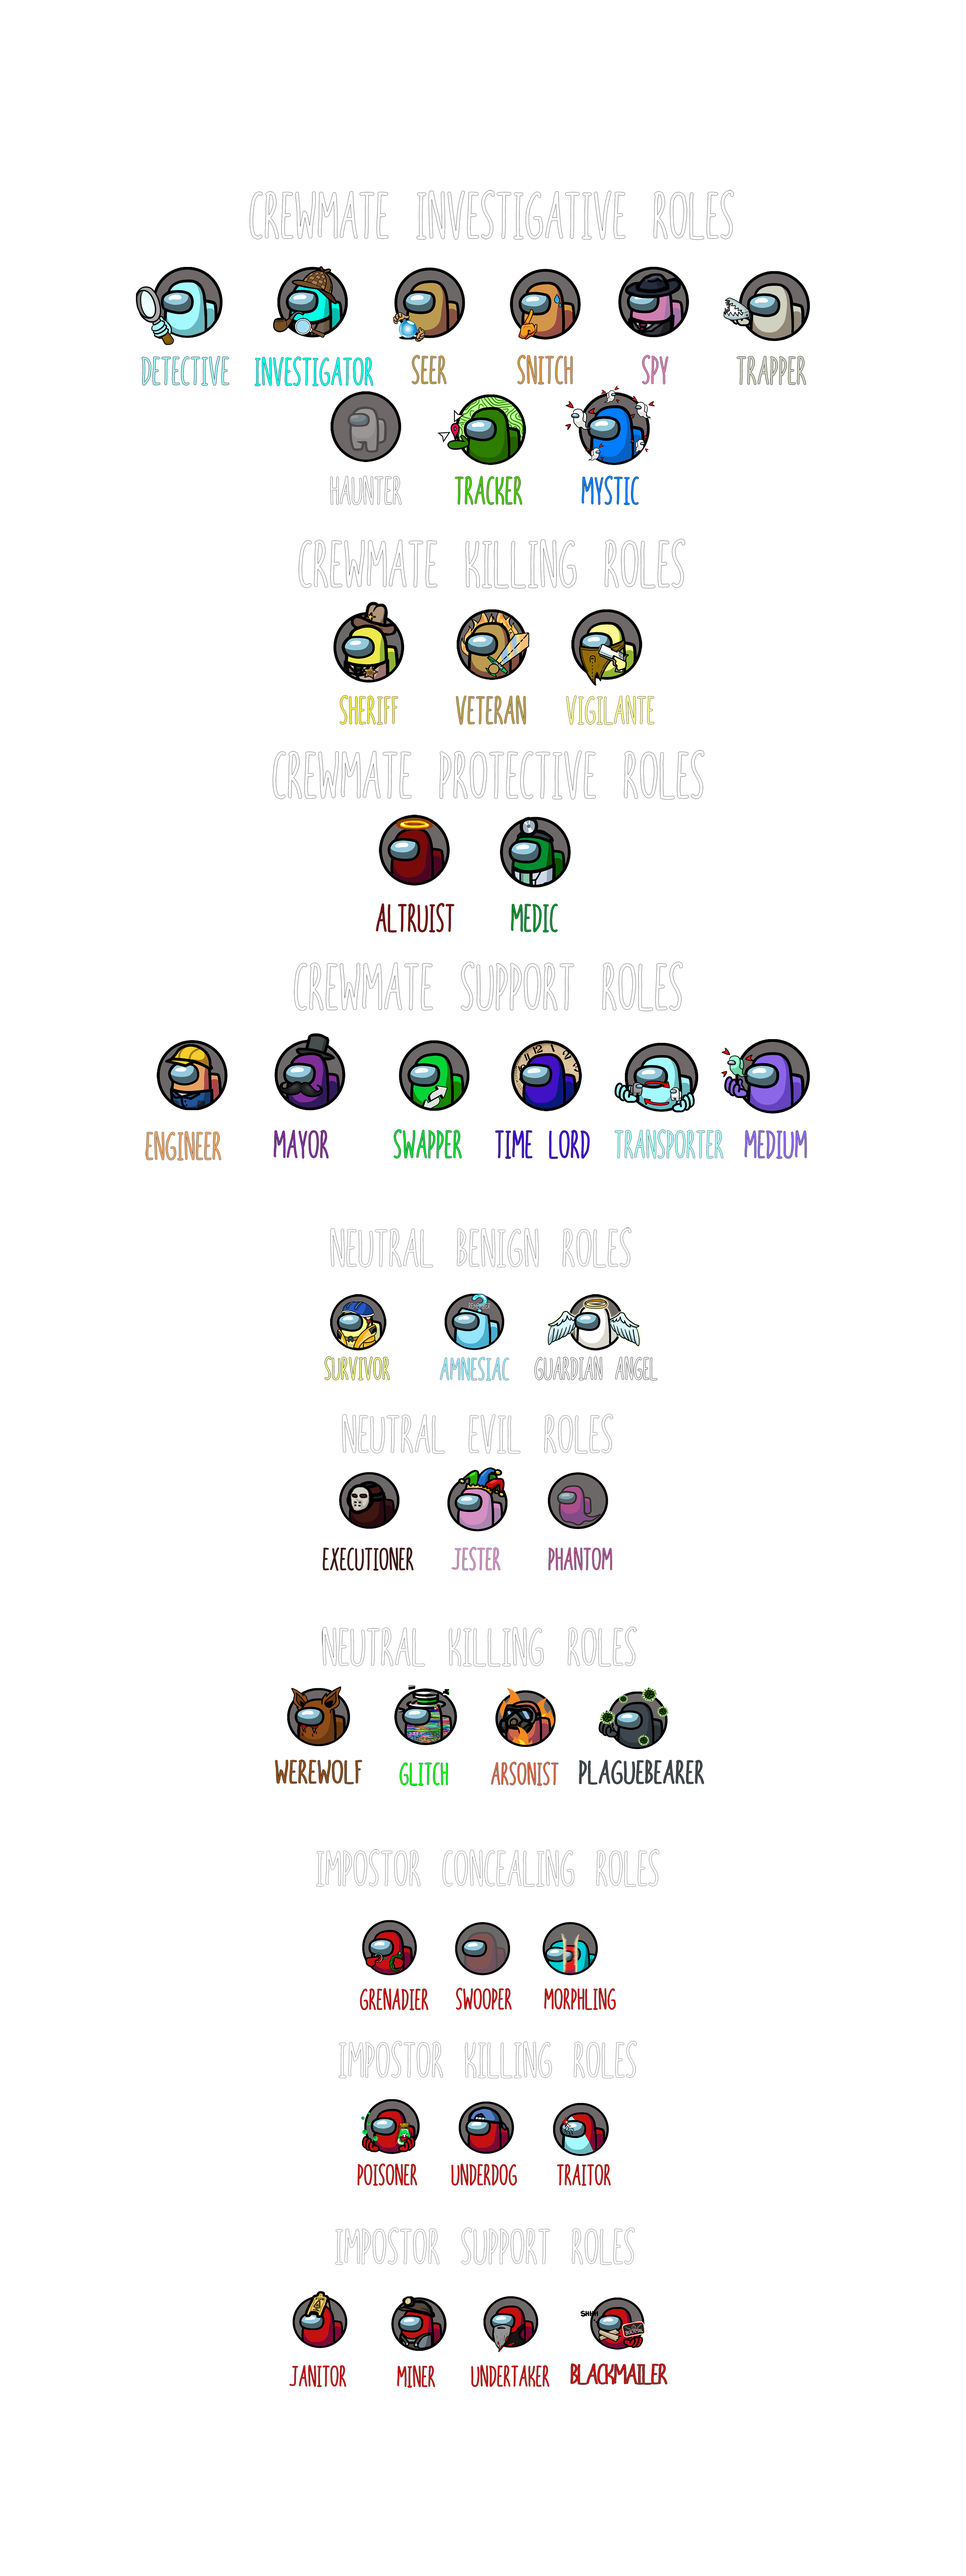
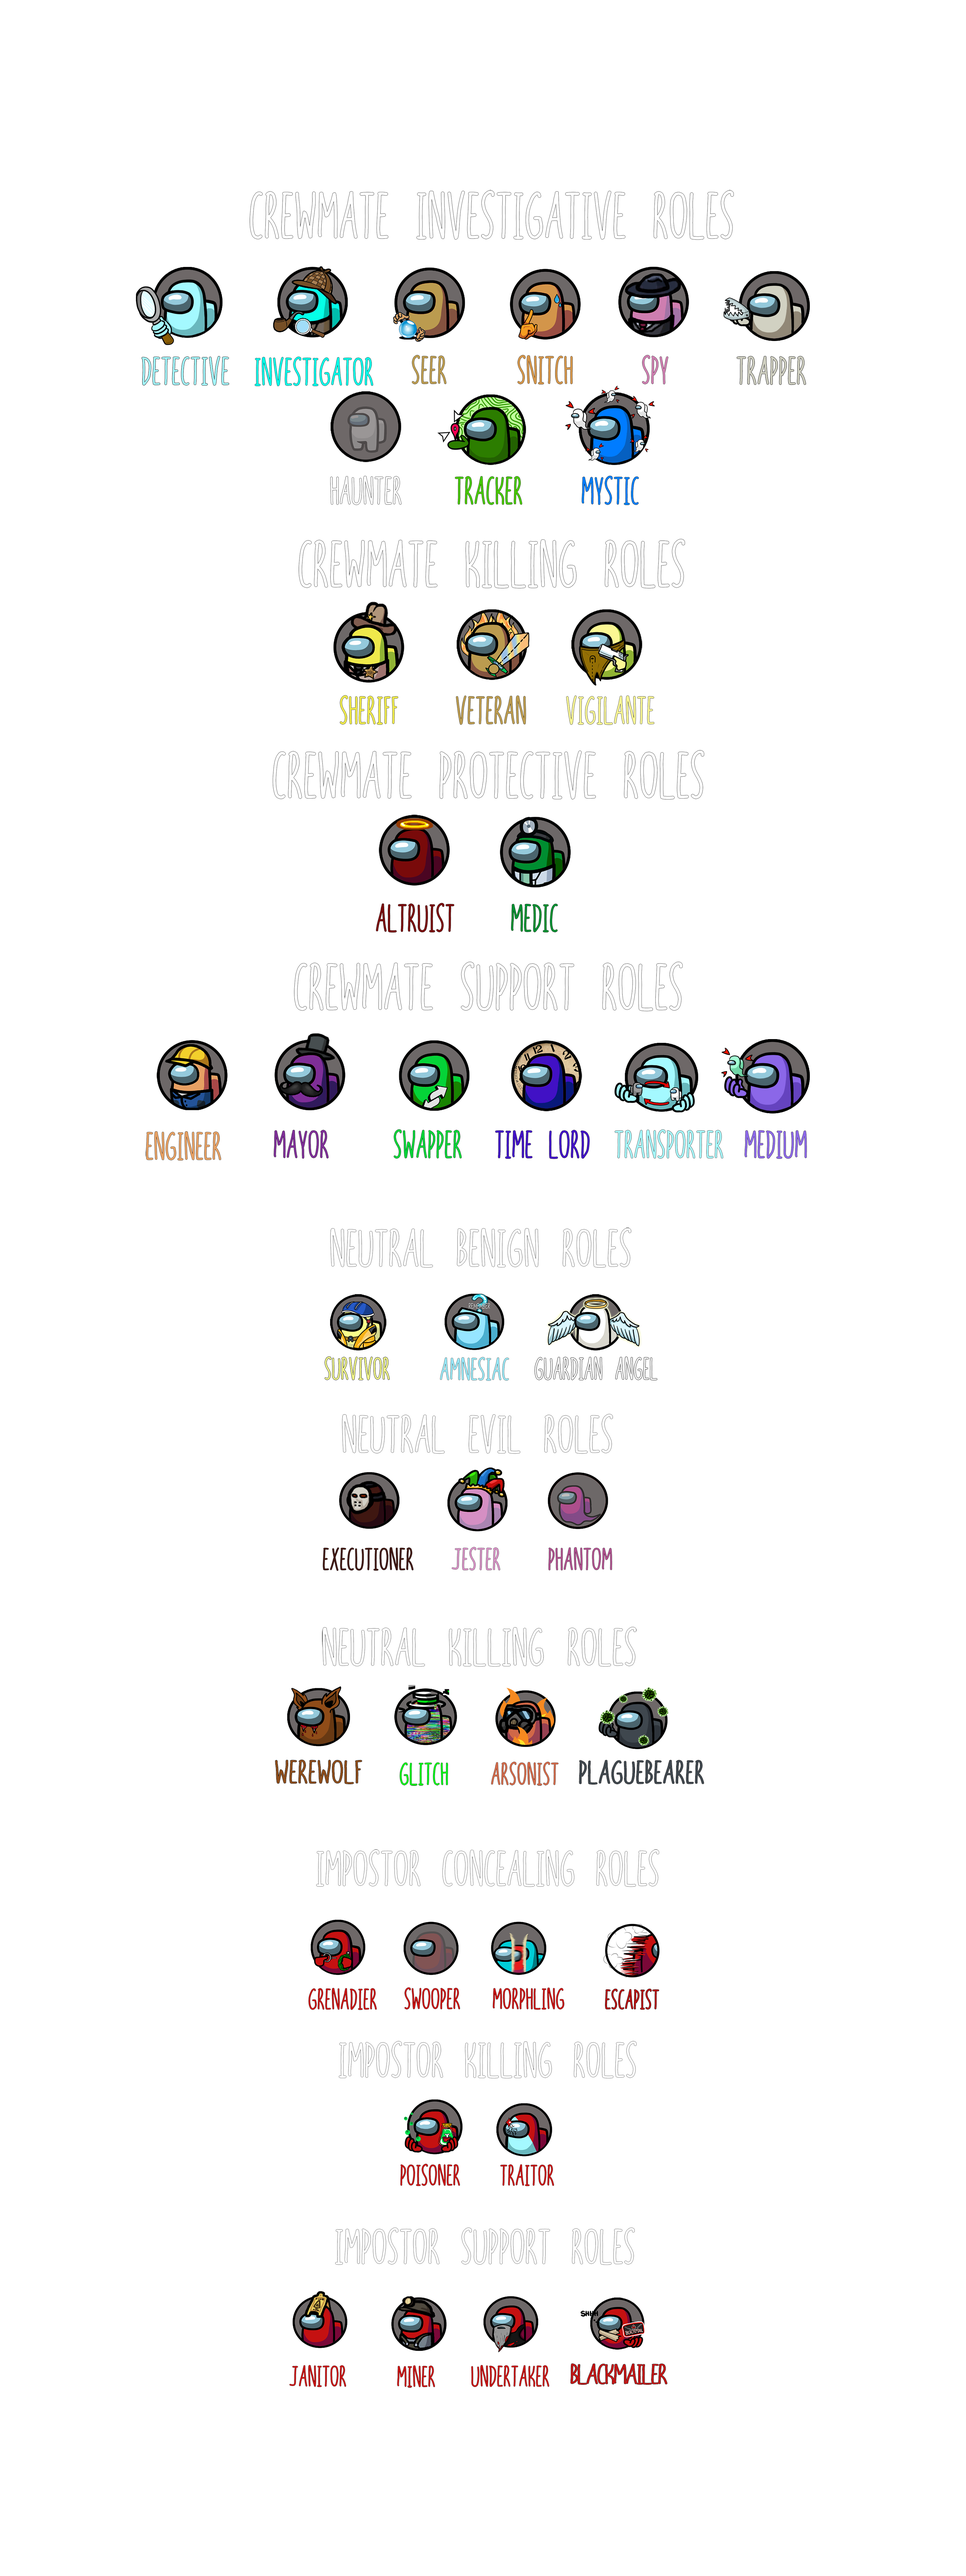
Hats

Changed region(s): [[0.31, 0.7188, 0.682, 0.7812], [0.372, 0.8125, 0.651, 0.8438]]

diff --git a/source/Patches/RandomMap.cs b/source/Patches/RandomMap.cs
@@ -53,7 +53,7 @@ namespace TownOfUs
             {
                 if (CustomGameOptions.AutoAdjustSettings)
                 {
-                    if (CustomGameOptions.SmallMapHalfVision) PlayerControl.GameOptions.CrewLightMod = vision;
+                    if (CustomGameOptions.SmallMapHalfVision && vision != 0) PlayerControl.GameOptions.CrewLightMod = vision;
                     if (PlayerControl.GameOptions.MapId == 1) AdjustCooldowns(CustomGameOptions.SmallMapDecreasedCooldown);
                     if (PlayerControl.GameOptions.MapId >= 4) AdjustCooldowns(-CustomGameOptions.LargeMapIncreasedCooldown);
                 }

diff --git a/source/Patches/SubmergedCompatibility.cs b/source/Patches/SubmergedCompatibility.cs
@@ -173,7 +173,7 @@ namespace TownOfUs.Patches
             Assembly = Plugin!.GetType().Assembly;
             Types = AccessTools.GetTypesFromAssembly(Assembly);
 
-            InjectedTypes = (Dictionary<string, Type>)AccessTools.PropertyGetter(Types.FirstOrDefault(t => t.Name == "RegisterInIl2CppAttribute"), "RegisteredTypes")
+            InjectedTypes = (Dictionary<string, Type>)AccessTools.PropertyGetter(Types.FirstOrDefault(t => t.Name == "ComponentExtensions"), "RegisteredTypes")
                 .Invoke(null, Array.Empty<object>());
 
             SubmarineStatusType = Types.First(t => t.Name == "SubmarineStatus");

diff --git a/source/TownOfUs.cs b/source/TownOfUs.cs
@@ -152,7 +152,7 @@ namespace TownOfUs
             RampageSprite = CreateSprite("TownOfUs.Resources.Rampage.png");
             TrapSprite = CreateSprite("TownOfUs.Resources.Trap.png");
             ExamineSprite = CreateSprite("TownOfUs.Resources.Examine.png");
-            EscapeSprite = CreateSprite("TownOfUs.Resources.Escape.png");
+            EscapeSprite = CreateSprite("TownOfUs.Resources.Recall.png");
             MarkSprite = CreateSprite("TownOfUs.Resources.Mark.png");
             HackSprite = CreateSprite("TownOfUs.Resources.Hack.png");
             MimicSprite = CreateSprite("TownOfUs.Resources.Mimic.png");

diff --git a/source/Patches/CustomOption/Generate.cs b/source/Patches/CustomOption/Generate.cs
@@ -948,7 +948,7 @@ namespace TownOfUs.CustomOption
             Escapist =
                 new CustomHeaderOption(num++, MultiMenu.imposter, "<color=#FF0000FF>Escapist</color>");
             EscapeCooldown =
-                new CustomNumberOption(num++, MultiMenu.imposter, "Escape Cooldown", 25f, 10f, 60f, 2.5f, CooldownFormat);
+                new CustomNumberOption(num++, MultiMenu.imposter, "Recall Cooldown", 25f, 10f, 60f, 2.5f, CooldownFormat);
             EscapistVent =
                 new CustomToggleOption(num++, MultiMenu.imposter, "Escapist Can Vent", false);
 

diff --git a/source/Patches/ImpostorRoles/EscapistMod/PerformKill.cs b/source/Patches/ImpostorRoles/EscapistMod/PerformKill.cs
@@ -41,8 +41,8 @@ namespace TownOfUs.ImpostorRoles.EscapistMod
                     writer.Write(PlayerControl.LocalPlayer.PlayerId);
                     writer.Write(role.EscapePoint);
                     AmongUsClient.Instance.FinishRpcImmediately(writer);
-                    Escapist.Escape(role.Player);
                     role.LastEscape = DateTime.UtcNow;
+                    Escapist.Escape(role.Player);
                 }
 
                 return false;

diff --git a/source/Patches/Utils.cs b/source/Patches/Utils.cs
@@ -634,6 +634,10 @@ namespace TownOfUs
             }
             #endregion
             #region ImposterRoles
+            foreach (Escapist role in Role.GetRoles(RoleEnum.Escapist))
+            {
+                role.LastEscape = DateTime.UtcNow;
+            }
             foreach (Blackmailer role in Role.GetRoles(RoleEnum.Blackmailer))
             {
                 role.LastBlackmailed = DateTime.UtcNow;
